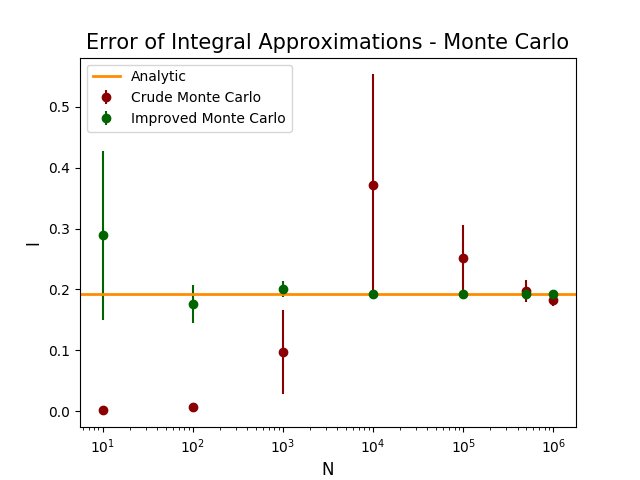
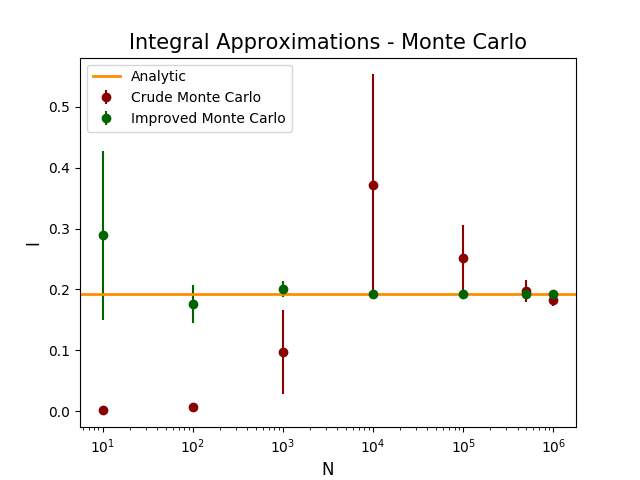
Changed figure titles, updated legends.

Changed region(s): [[0.125, 0.0625, 0.9062, 0.125]]

diff --git a/Project3/plot_results.py b/Project3/plot_results.py
@@ -69,9 +69,9 @@ plt.axhline(exact, ls="-", c="darkorange", lw=2, label="Analytic")
 plt.plot(N_a, results_a, marker='o', ls="none", ms=6, c="darkred",
              label="Gauss-Legendre")
 plt.plot(N_b, results_b, marker='o', ls="none", ms=6, c="darkgreen",
-             label="Gauss-Laguerre")
+             label="Mixed")
 plt.legend()
-plt.title("Error of Integral Approximations - Gaussian Quadrature", fontsize=15)
+plt.title("Integral Approximations - Gaussian Quadrature", fontsize=15)
 plt.xlabel("N", fontsize=12)
 plt.ylabel("I", fontsize=12)
 plt.savefig("./Figures/QC_quadrature.png")
@@ -84,7 +84,7 @@ plt.errorbar(N_d, (mean_results_d), std_d, marker="o", ls="none", c="darkgreen",
              label="Improved Monte Carlo")
 plt.xscale("log")
 plt.legend(loc="upper left")
-plt.title("Error of Integral Approximations - Monte Carlo", fontsize=15)
+plt.title("Integral Approximations - Monte Carlo", fontsize=15)
 plt.xlabel("N", fontsize=12)
 plt.ylabel("I", fontsize=12)
 plt.savefig("./Figures/MC.png")
@@ -92,7 +92,7 @@ plt.show()
 
 plt.plot(N_a, times_a_avg, marker="o", ls="none", label="Gauss-Legendre",
          c="darkred")
-plt.plot(N_b, times_b_avg, marker="o", ls="none", label="Gauss-Laguerre",
+plt.plot(N_b, times_b_avg, marker="o", ls="none", label="Mixed",
          c="darkgreen")
 plt.legend()
 plt.title("Average Algorithm Times", fontsize=15)
